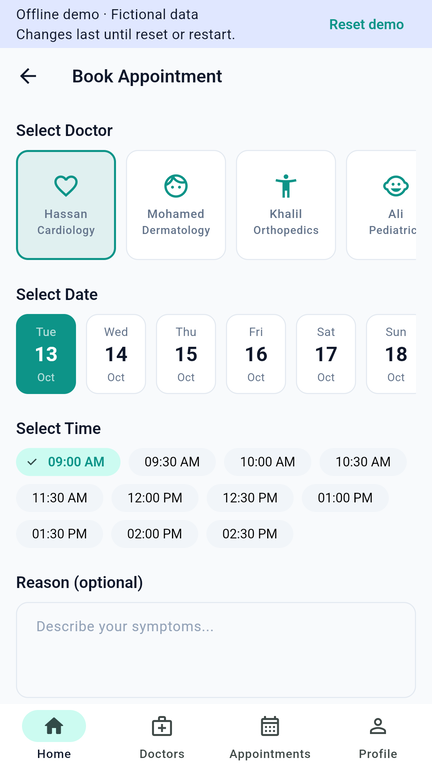
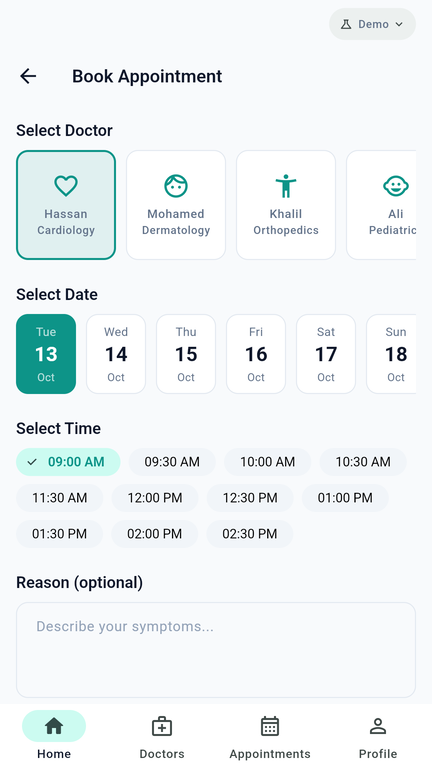
fix(ui): compact mode controls and improve walkthrough caption contrast

Changed region(s): [[0.0301, 0.0, 0.5417, 0.0625], [0.7523, 0.0, 0.9329, 0.0625]]

diff --git a/lib/features/auth/presentation/demo_notice.dart b/lib/features/auth/presentation/demo_notice.dart
@@ -29,51 +29,108 @@ Future<void> confirmDemoReset(BuildContext context, WidgetRef ref) async {
   if (confirmed == true && context.mounted) ref.read(resetDemoProvider)();
 }
 
-/// Visible in each portal so simulated data never looks like live clinic data.
+enum _ModeAction { details, reset }
+
+/// A quiet mode indicator; details and demo reset stay available in its menu.
 class DemoNotice extends ConsumerWidget {
   const DemoNotice({super.key});
 
   @override
   Widget build(BuildContext context, WidgetRef ref) {
     final config = ref.watch(backendConfigurationProvider);
-    return Material(
-      color: Theme.of(context).colorScheme.secondaryContainer,
-      child: SafeArea(
-        bottom: false,
-        child: Padding(
-          padding: const EdgeInsets.symmetric(horizontal: 16, vertical: 4),
-          child: LayoutBuilder(
-            builder: (context, constraints) {
-              final text = Text(
-                config.isDemo
-                    ? 'Offline demo · Fictional data\nChanges last until reset or restart.'
-                    : config.useEmulators
-                    ? 'Local emulator · Fictional data\nClinic time: Africa/Cairo.'
-                    : 'Connected clinic · Clinic time: Africa/Cairo.',
-              );
-              final reset = TextButton(
-                onPressed: () => confirmDemoReset(context, ref),
-                child: const Text('Reset demo'),
-              );
-              if (constraints.maxWidth /
-                      (MediaQuery.textScalerOf(context).scale(16) / 16) <
-                  400) {
-                return Column(
-                  crossAxisAlignment: CrossAxisAlignment.stretch,
-                  children: [
-                    text,
-                    if (config.isDemo)
-                      Align(alignment: Alignment.centerRight, child: reset),
-                  ],
-                );
+    final theme = Theme.of(context);
+    final label = config.isDemo
+        ? 'Demo'
+        : config.useEmulators
+        ? 'Emulator'
+        : 'Clinic';
+    final details = config.isDemo
+        ? 'Offline demo · Fictional data\nChanges last until reset or restart.'
+        : config.useEmulators
+        ? 'Local emulator · Fictional data\nClinic time: Africa/Cairo.'
+        : 'Connected clinic · Clinic time: Africa/Cairo.';
+
+    return SafeArea(
+      bottom: false,
+      child: Padding(
+        padding: const EdgeInsets.symmetric(horizontal: 16),
+        child: Align(
+          alignment: Alignment.centerRight,
+          child: PopupMenuButton<_ModeAction>(
+            key: const ValueKey('clinic-mode-indicator'),
+            tooltip: config.isDemo ? 'Demo mode' : 'Clinic connection',
+            onSelected: (action) {
+              if (action == _ModeAction.reset) {
+                confirmDemoReset(context, ref);
+                return;
               }
-              return Row(
-                children: [
-                  Expanded(child: text),
-                  if (config.isDemo) reset,
-                ],
+              showDialog<void>(
+                context: context,
+                builder: (context) => AlertDialog(
+                  title: Text(
+                    config.isDemo ? 'Demo mode' : 'Clinic connection',
+                  ),
+                  content: Text(details),
+                  actions: [
+                    TextButton(
+                      onPressed: () => Navigator.pop(context),
+                      child: const Text('Close'),
+                    ),
+                  ],
+                ),
               );
             },
+            itemBuilder: (_) => [
+              const PopupMenuItem(
+                value: _ModeAction.details,
+                child: Text('Mode details'),
+              ),
+              if (config.isDemo)
+                const PopupMenuItem(
+                  value: _ModeAction.reset,
+                  child: Text('Reset demo'),
+                ),
+            ],
+            child: ConstrainedBox(
+              constraints: const BoxConstraints(minHeight: 48, minWidth: 48),
+              child: Padding(
+                padding: const EdgeInsets.symmetric(vertical: 8),
+                child: DecoratedBox(
+                  decoration: BoxDecoration(
+                    color: theme.colorScheme.surfaceContainerHighest.withValues(
+                      alpha: 0.45,
+                    ),
+                    borderRadius: BorderRadius.circular(20),
+                  ),
+                  child: Padding(
+                    padding: const EdgeInsets.symmetric(
+                      horizontal: 10,
+                      vertical: 4,
+                    ),
+                    child: Row(
+                      mainAxisSize: MainAxisSize.min,
+                      children: [
+                        Icon(
+                          config.isDemo
+                              ? Icons.science_outlined
+                              : Icons.cloud_outlined,
+                          size: 14,
+                          color: theme.colorScheme.onSurfaceVariant,
+                        ),
+                        const SizedBox(width: 5),
+                        Text(label, style: theme.textTheme.labelSmall),
+                        const SizedBox(width: 3),
+                        Icon(
+                          Icons.expand_more,
+                          size: 14,
+                          color: theme.colorScheme.onSurfaceVariant,
+                        ),
+                      ],
+                    ),
+                  ),
+                ),
+              ),
+            ),
           ),
         ),
       ),

diff --git a/test/demo_session_widget_test.dart b/test/demo_session_widget_test.dart
@@ -29,19 +29,20 @@ void main() {
         ),
       );
       await tester.pumpAndSettle();
-      expect(
-        find.textContaining('Offline demo · Fictional data'),
-        findsOneWidget,
-      );
+      expect(find.byTooltip('Demo mode'), findsOneWidget);
       final original = container.read(clinicRepositoryProvider);
-      await tester.tap(find.widgetWithText(TextButton, 'Reset demo'));
+      await tester.tap(find.byTooltip('Demo mode'));
+      await tester.pumpAndSettle();
+      await tester.tap(find.text('Reset demo'));
       await tester.pumpAndSettle();
       expect(find.text('Reset demo?'), findsOneWidget);
       await tester.tap(find.text('Cancel'));
       await tester.pumpAndSettle();
       expect(container.read(authProvider).isAuthenticated, isTrue);
       expect(container.read(clinicRepositoryProvider), same(original));
-      await tester.tap(find.widgetWithText(TextButton, 'Reset demo'));
+      await tester.tap(find.byTooltip('Demo mode'));
+      await tester.pumpAndSettle();
+      await tester.tap(find.text('Reset demo'));
       await tester.pumpAndSettle();
       await tester.tap(find.widgetWithText(FilledButton, 'Reset demo'));
       await tester.pumpAndSettle();

diff --git a/test/firebase_mode_widget_test.dart b/test/firebase_mode_widget_test.dart
@@ -108,12 +108,20 @@ void main() {
       await open(tester, '/login');
       expect(find.text('Demo role'), findsNothing);
       expect(find.text('Reset demo'), findsNothing);
+      expect(find.text('Emulator'), findsOneWidget);
+      await tester.tap(find.byTooltip('Clinic connection'));
+      await tester.pumpAndSettle();
+      expect(find.text('Reset demo'), findsNothing);
+      await tester.tap(find.text('Mode details'));
+      await tester.pumpAndSettle();
       expect(
         find.text(
           'Local emulator · Fictional data\nClinic time: Africa/Cairo.',
         ),
         findsOneWidget,
       );
+      await tester.tap(find.text('Close'));
+      await tester.pumpAndSettle();
       expect(
         tester
             .widget<TextFormField>(find.byType(TextFormField).first)

diff --git a/test/clinic_workflows_widget_test.dart b/test/clinic_workflows_widget_test.dart
@@ -59,10 +59,7 @@ void main() {
       expect(container.read(routerProvider), same(router));
       expect(router.routeInformationProvider.value.uri.path, '/${role.value}');
       expect(container.read(authProvider).isAuthenticated, isTrue);
-      expect(
-        find.textContaining('Offline demo · Fictional data'),
-        findsOneWidget,
-      );
+      expect(find.byTooltip('Demo mode'), findsOneWidget);
       expect(
         container.read(doctorsProvider),
         hasLength(role == UserRole.doctor ? 1 : 6),

diff --git a/test/responsive_portals_test.dart b/test/responsive_portals_test.dart
@@ -69,7 +69,7 @@ void main() {
           );
           await tester.pumpAndSettle();
           expect(tester.takeException(), isNull);
-          expect(find.text('Reset demo'), findsOneWidget);
+          expect(find.byTooltip('Demo mode'), findsOneWidget);
           await tester.pumpWidget(const SizedBox.shrink());
           container.dispose();
           await tester.pump();

diff --git a/tool/caption_demo.py b/tool/caption_demo.py
@@ -1,0 +1,68 @@
+"""Add small high-contrast scene captions to a captured demo walkthrough."""
+
+import argparse
+import json
+import shutil
+import subprocess
+from pathlib import Path
+
+
+def timestamp(seconds, precision):
+    factor = 10**precision
+    ticks = round(seconds * factor)
+    seconds, fraction = divmod(ticks, factor)
+    minutes, seconds = divmod(seconds, 60)
+    hours, minutes = divmod(minutes, 60)
+    separator = ',' if precision == 3 else '.'
+    return f'{hours:02}:{minutes:02}:{seconds:02}{separator}{fraction:0{precision}}'
+
+
+def main():
+    parser = argparse.ArgumentParser(description=__doc__)
+    parser.add_argument('directory', type=Path, help='Capture output directory')
+    args = parser.parse_args()
+    directory = args.directory.resolve()
+    video = directory / 'mediflow-demo.mp4'
+    chapters = json.loads((directory / 'chapters.json').read_text())
+    duration = float(subprocess.check_output([
+        'ffprobe', '-v', 'error', '-show_entries', 'format=duration',
+        '-of', 'default=nw=1:nk=1', str(video),
+    ]))
+    header = '''[Script Info]
+ScriptType: v4.00+
+PlayResX: 720
+PlayResY: 1280
+WrapStyle: 0
+
+[V4+ Styles]
+Format: Name, Fontname, Fontsize, PrimaryColour, SecondaryColour, OutlineColour, BackColour, Bold, Italic, Underline, StrikeOut, ScaleX, ScaleY, Spacing, Angle, BorderStyle, Outline, Shadow, Alignment, MarginL, MarginR, MarginV, Encoding
+Style: Default,Roboto,25,&H00FFFFFF,&H00FFFFFF,&H182A170F,&H182A170F,0,0,0,0,100,100,0,0,3,6,0,2,34,34,26,1
+
+[Events]
+Format: Layer, Start, End, Style, Name, MarginL, MarginR, MarginV, Effect, Text
+'''
+    ass, srt = [], []
+    for index, chapter in enumerate(chapters):
+        end = chapters[index + 1]['seconds'] - 0.05 if index + 1 < len(chapters) else duration
+        label = 'MediFlow Pro · Clinic demo' if index == 0 else chapter['label']
+        # Captions are plain text; scene labels cannot insert ASS formatting.
+        label = label.replace('{', '').replace('}', '').replace('\\', '').replace('\n', ' ')
+        ass.append(f"Dialogue: 0,{timestamp(chapter['seconds'], 2)},{timestamp(end, 2)},Default,,0,0,0,,{label}")
+        srt.append(f"{index + 1}\n{timestamp(chapter['seconds'], 3)} --> {timestamp(end, 3)}\n{label}\n")
+    (directory / 'mediflow-demo.ass').write_text(header + '\n'.join(ass) + '\n')
+    (directory / 'mediflow-demo.srt').write_text('\n'.join(srt))
+    fonts = directory / 'caption-fonts'
+    fonts.mkdir(exist_ok=True)
+    shutil.copy2(Path(__file__).resolve().parent.parent / 'assets/fonts/Roboto.ttf', fonts / 'Roboto.ttf')
+    # Relative filter paths avoid escaping user-selected export directories.
+    subprocess.run([
+        'ffmpeg', '-y', '-loglevel', 'error', '-i', 'mediflow-demo.mp4',
+        '-vf', 'scale=666:1184,pad=720:1280:27:0:color=0xF8FAFC,subtitles=mediflow-demo.ass:fontsdir=caption-fonts',
+        '-c:v', 'libx264', '-crf', '20', '-pix_fmt', 'yuv420p',
+        '-movflags', '+faststart', 'mediflow-demo-captioned.mp4',
+    ], cwd=directory, check=True)
+    print(f'Captioned walkthrough saved: {directory / "mediflow-demo-captioned.mp4"}')
+
+
+if __name__ == '__main__':
+    main()

diff --git a/docs/RELEASE_CHECKS.md b/docs/RELEASE_CHECKS.md
@@ -8,7 +8,7 @@ Observed on October 12, 2026. Results describe the checked scope and are not a g
 | Unit/widget suite | 241 passing tests, including 72 width/text-scale cases |
 | Domain boundaries | 21 domain files checked; no framework/data/presentation dependencies |
 | Backend tests | 79 passing Auth/Firestore emulator and operator cases |
-| Web | Release build succeeds; 64-second portrait Chromium walkthrough covers patient booking, doctor schedule and admin screens with external endpoints blocked; zero severe errors and zero external requests |
+| Web | Release build succeeds; Portrait Chromium walkthrough covers patient booking, doctor schedule and admin screens with external endpoints blocked; zero severe errors and zero external requests |
 | Android | Debug APK builds with updated application ID and icons; release distribution signing remains an owner prerequisite |
 | Linux | Release demo bundle builds |
 | iOS/macOS/Windows | Branding updated; builds and runtime unverified on this Linux host |
@@ -42,3 +42,7 @@ Linux interactive launch built the debug executable but could not open a display
 Email/password Auth, deployed rules/indexes and an operator-provisioned initial administrator exist in the live project. A registered live web release was observed at its connected login screen; anonymous profile access was rejected. The owner signed in privately and supplied screenshots showing the connected admin dashboard, doctors, patients and billing pages rendering their empty states. This confirms live admin entry and initial reads; authenticated live booking, staff creation and billing mutations have not been observed. The full fictional emulator journeys exercise actual SDK/rules behavior separately. See [Firebase setup](FIREBASE.md).
 
 Connected mode needs a server connection; the demo needs its packaged/local assets and no backend. Cold browser reload while the asset server is unreachable is not supported by a service worker. Native device interactions, native connected Firebase, store releases, clinical deployment, production capacity and payment processing are not established by these checks.
+
+## Compact mode controls and video captions
+
+The full-width mode banner is replaced by a small badge menu. Demo details and confirmed reset remain available; connected mode does not expose a demo reset. All 241 Flutter tests passed after the change, including the 72 width/text-scale cases and the menu/reset flows. Both demo and connected web release builds passed; hot reload succeeded with no runtime errors. Refreshed walkthroughs reported zero severe browser errors and zero external requests. Caption exports keep the 25-pixel text size and add a dark padded background behind white text.

diff --git a/README.md b/README.md
@@ -40,7 +40,7 @@ flutter run -d chrome
 
 Select Patient, Doctor or Admin and use the prefilled `demo@mediflow.com` / `password123`. Demo authentication accepts dummy passwords of at least six characters; use fictional details. Other demo emails retain their recorded role.
 
-Demo data stays in memory across logout, so you can explore the same clinic from different roles. **Reset demo** asks for confirmation and restores the fictional clinic. Restart also clears changes; theme settings last for the running app. The default demo never initializes Firebase. Dependency installation requires internet access; the built application bundles its renderer and fonts. Serving its assets locally permits use without internet. Browser reload while completely disconnected from the asset server requires a separate caching/installation strategy; no service worker is supplied.
+Demo data stays in memory across logout, so you can explore the same clinic from different roles. **Reset demo**, in the small Demo badge menu, asks for confirmation and restores the fictional clinic. Restart also clears changes; theme settings last for the running app. The default demo never initializes Firebase. Dependency installation requires internet access; the built application bundles its renderer and fonts. Serving its assets locally permits use without internet. Browser reload while completely disconnected from the asset server requires a separate caching/installation strategy; no service worker is supplied.
 
 ## Connected clinic
 

diff --git a/docs/ARCHITECTURE.md b/docs/ARCHITECTURE.md
@@ -53,7 +53,7 @@ All collection/metric providers consumed by screens derive from `ClinicAccess.sc
 
 Missing or ambiguous doctor linkage returns an empty snapshot. Only the demo repositories hold the complete synthetic clinic. Client-side filtering is a demo visibility boundary. Firebase mode also scopes server queries and enforces reads in maintained rules; client transactions are allowed only when Security Rules validate actual Firebase identity, trusted roles and the required paired records. There is no Functions runtime.
 
-The login/registration screens explicitly describe simulated passwords and temporary identities; each portal carries a demo notice and a reset control. The shared demo email selects a seed role, while known emails retain their registered identity/role. No automatic session restoration or durable persistence is implemented for demo accounts.
+The login/registration screens explicitly describe simulated passwords and temporary identities; each portal carries a compact mode menu with demo details and a confirmed reset action. The shared demo email selects a seed role, while known emails retain their registered identity/role. No automatic session restoration or durable persistence is implemented for demo accounts.
 
 ## Reservation and lifecycle policy
 

diff --git a/docs/DEMO_WALKTHROUGH.md b/docs/DEMO_WALKTHROUGH.md
@@ -15,8 +15,11 @@ Install matching Chromium/ChromeDriver, Python 3, ImageMagick and ffmpeg. From t
 ```bash
 flutter build web --release --no-pub
 python3 tool/capture_demo.py --output /tmp/mediflow-showcase
+python3 tool/caption_demo.py /tmp/mediflow-showcase
 ```
 
 The helper serves that build locally, opens an isolated headless browser at phone dimensions, checks that the app is in demo mode, and records actual interactions. It exports an MP4, full-resolution screenshots, chapter timings and browser evidence to the output directory; compact screenshots go to `docs/media`. Renderer/font/backend internet endpoints are blocked during capture. The helper rejects severe browser errors or external requests and never signs into a live clinic.
+
+The optional caption exporter keeps scene labels small and adds a dark padded background behind white text. Mode details and Reset demo are available from the compact Demo badge menu.
 
 The MP4 preserves the observed screen timing, encodes H.264 at 720×1280 / 24 fps, and has no audio. Raw frames are local output and should not be committed. For a connected-clinic walkthrough, use the emulator integration commands rather than this demo capture script.
